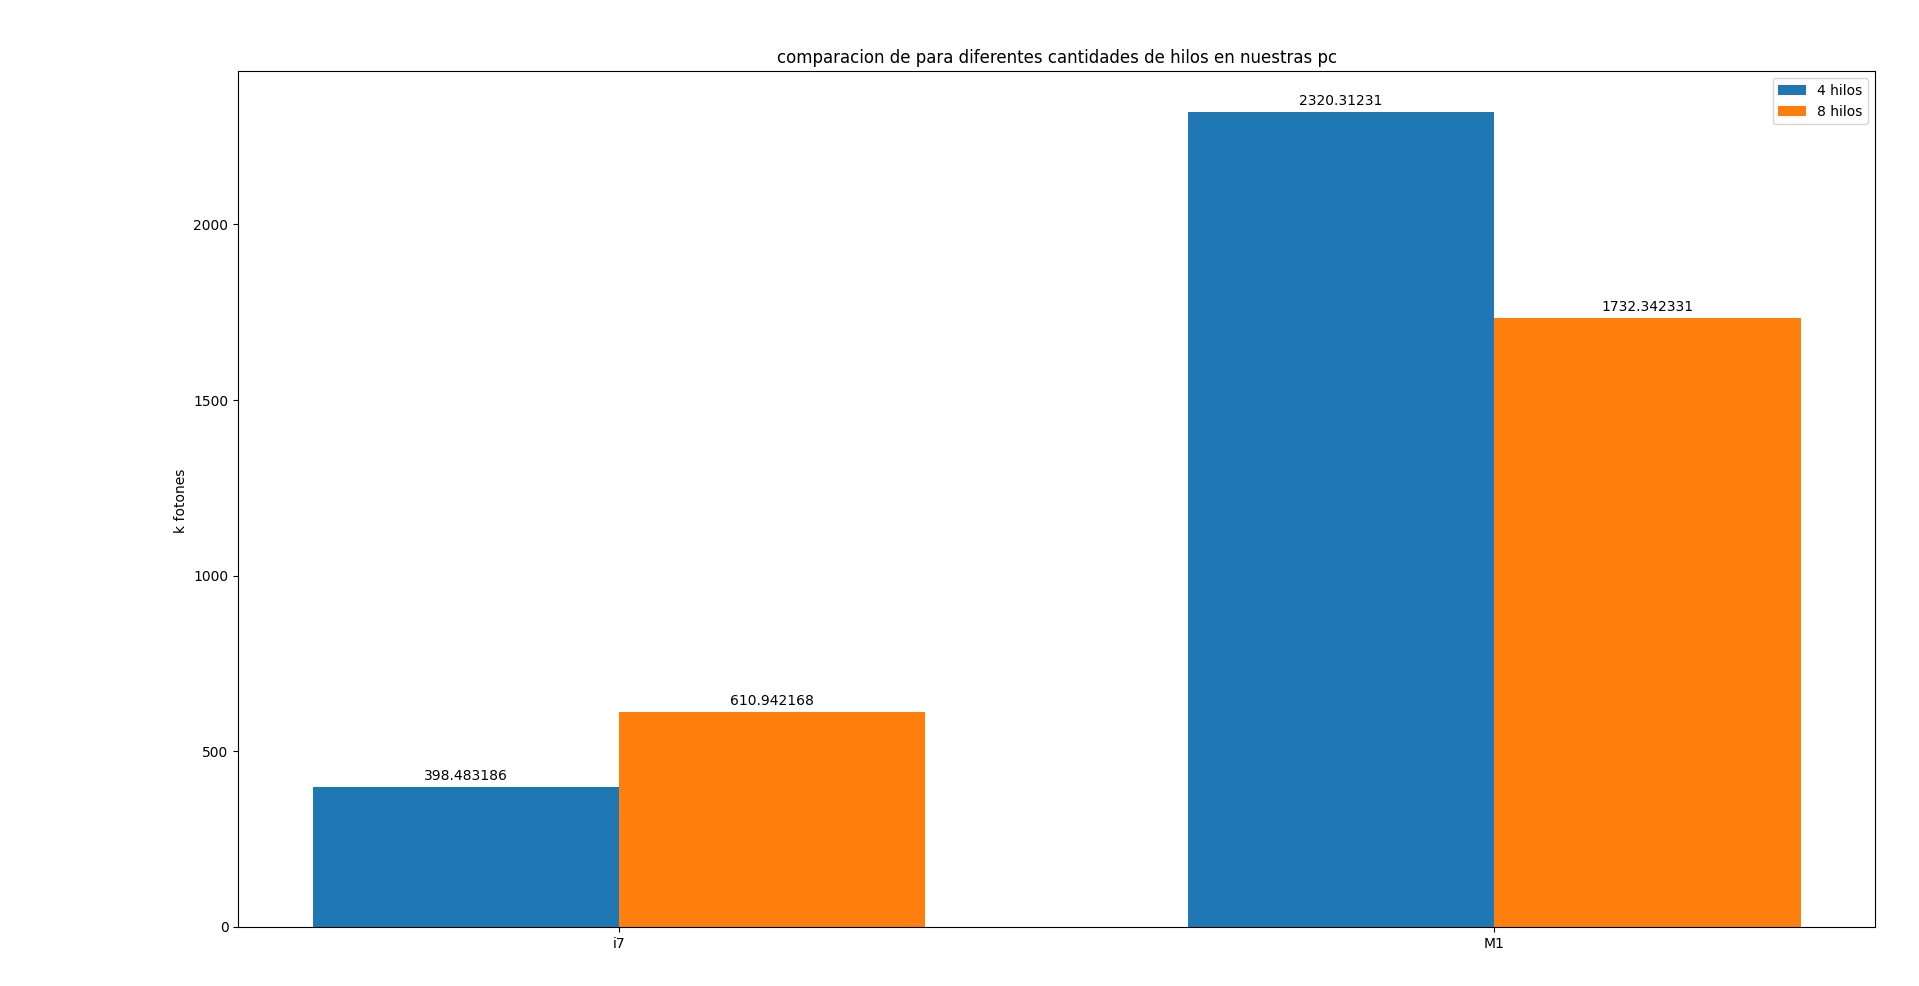
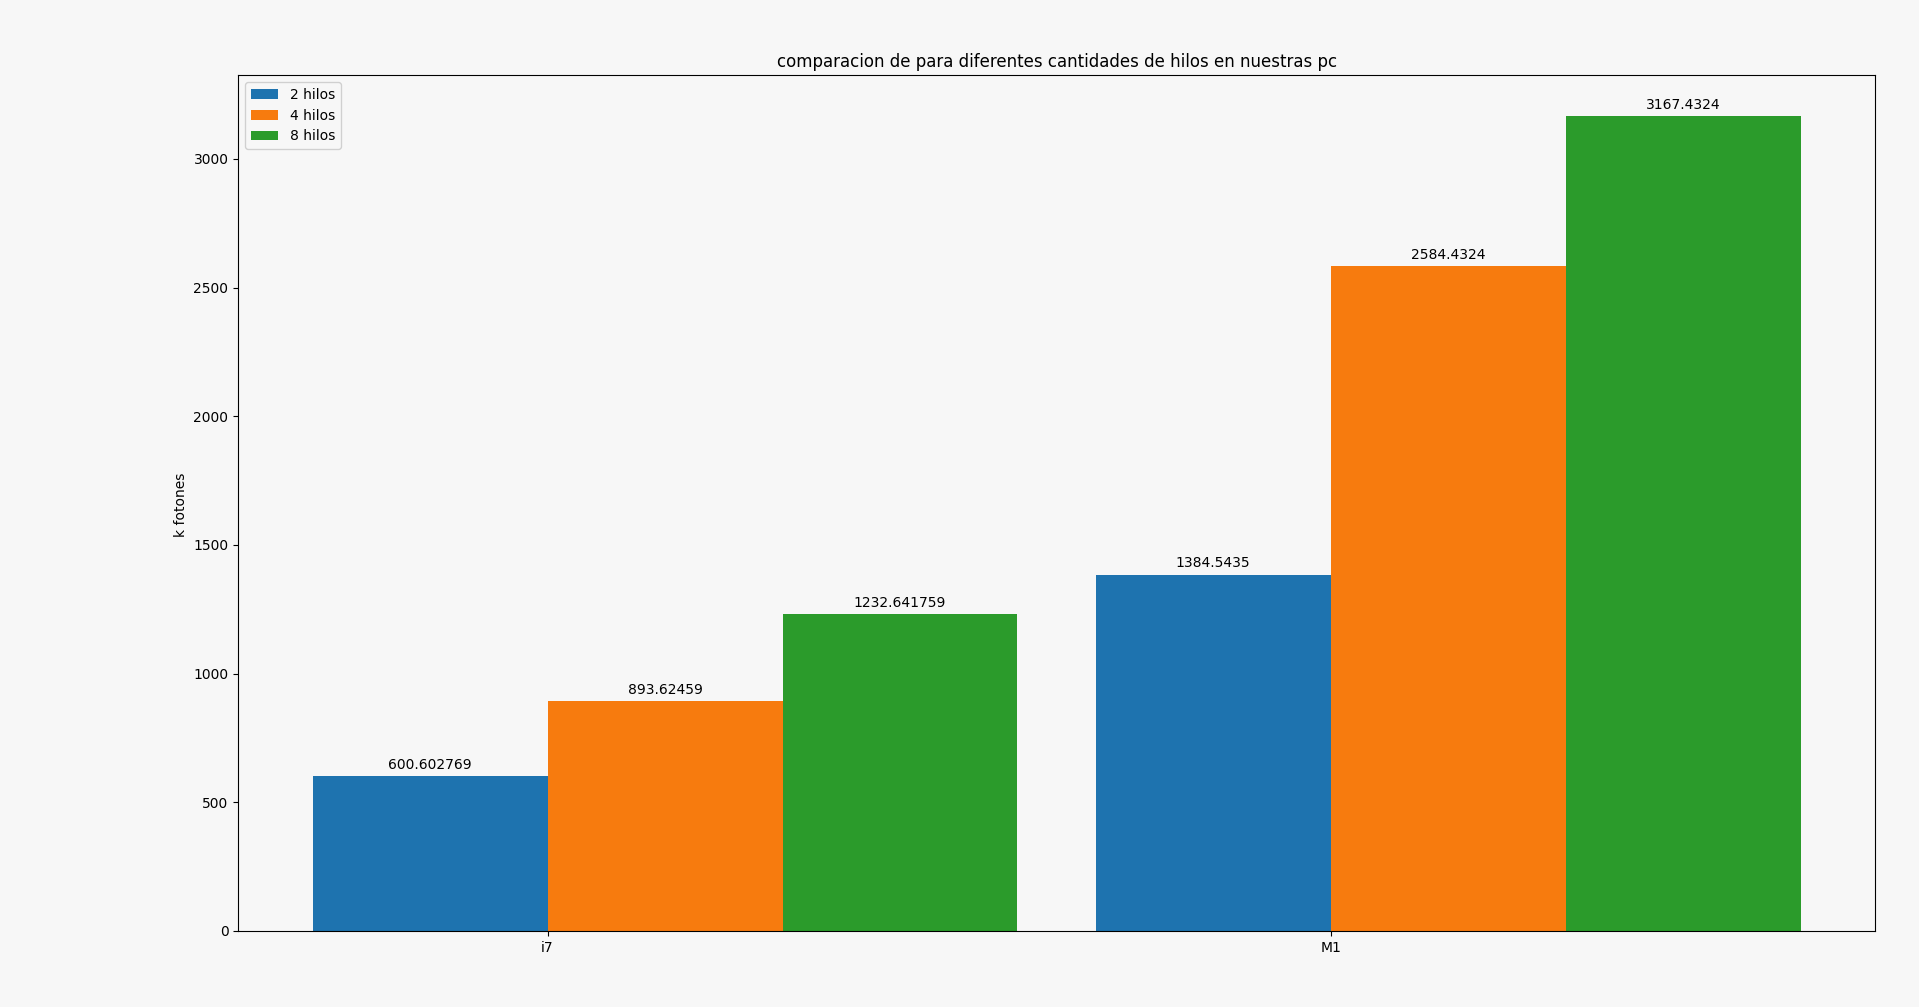
informe

diff --git a/tiny_pcg.c b/tiny_pcg.c
@@ -158,6 +158,8 @@ int main(void)
         free(partials[j].heat);
         free(partials[j].heat2);
     }
+    
+
     // printf("# %lf seconds\n", elapsed);
     //printf("# %lf K photons per second\n", 1e-3 * PHOTONS / elapsed);
     printf("%lf\n", 1e-3 * PHOTONS / elapsed);

diff --git a/Informe3/informe3.md b/Informe3/informe3.md
@@ -23,19 +23,87 @@ y luego con el comando
 
 elegiamos la cantidad de threads que queriamos lanzar.
 
+### Optimizaciones
+Para este Lab usando open mp, ademas de cambiar el generador de numeros aleatorios, optamos por no usar la funcion for reduction() ya que los resultados obtenidos, si bien eran mejores, no eran tan buenos como esperabamos. por esta razon decidimos hacer una version personalizada de la misma.
+
+Para evitar race conditions realizamos los siguintes cambios al codigo.
+Primero creamos el siguiente struct:
+
+    typedef struct PhotonHeat {
+        float *heat;
+        float *heat2;
+    }PhotonHeat;
+
+y le asignamos a cada hilo un PhotonHeat distinto 
+
+    #pragma omp parallel for schedule(dynamic)
+    for (unsigned int i = 0; i < PHOTONS ; ++i) {
+        photon(rngs[omp_get_thread_num()], partials[omp_get_thread_num()]);
+    }
+
+Para finalmente reconciliar cada PhotonHeat en uno con y asi evitar race conditions.
+
+
+    #pragma omp parallel for schedule(dynamic)
+    for (unsigned int i = 0; i < SHELLS ; i++){
+        for(int j = 0; j < num_threads; j++){
+            heat[i] += partials[j].heat[i];
+            heat2[i] += partials[j].heat2[i];
+        }
+    }
+Para la union tambien aprovechamos openmp y la realizamos en paralelo.
+
+Otras mejoras. 
+a cada thread le pasamos su propio generador con una semilla unica 
+
+ pcg32_srandom_r(&(rngs[i]), time(NULL) * (i + 1), (intptr_t)&(rngs[i]));
+
+donde i es el numero de thread en el que esta corriendo.
+
+y para medir el tiempo usamos la funcion 
+
+    omp_get_wtime();
+
+ya que vimos que era lo optimo en cuanto a paralelismo.
+
+
 ### Resultados 
+
+#### Roofline
+
+Resultados obtenidos con roofline.
+![alt text](gra1.png)
+
+
+![alt text](gra2.png)
+
+
+### Graficos
 Para este lab usamos la computadora zx81, una computadora con el Intel® Core™ i7-8550U CPU @ 1.80GHz × 8 y otra con un Apple M1 x 8
-Primero nos parecio interesante ver los resultados obtenidos comparando los mejores resultados de varias corridas para nuestras computadoras tanto para 4 hilos como para 8. obteniendo asi los siguientes resultados.
+Primero nos parecio interesante ver los resultados obtenidos comparando los mejores resultados de varias corridas para nuestras computadoras tanto para 2,4 y 8 hilos.
+Obteniendo asi los siguientes resultados.
 
 ![alt text](gr1.png)
 
 En este grafico es interesante notar que 
 - El aumento de velocidad no es lineal
 - El aumento de velocidad parea el procesador i7 es realmente grandioso respecto a los resultados obtenidos en el lab 2, lo que prueba que fuimos realmente perjudicados por el generador rand()
-- En el caso del Apple M1 se pierde velocidad con 8 hilos (creemos que se da por el uso de los cores de baja potencia lo que produce un efecto contraproducente)
 
 Ahora nos parecio interesante comparar los resultados del procesador i7 en el lab 1,2 y 3.
 
 ![alt text](gr2.png)
 
 Aqui vemos la mejora respecto a labs anteriores, esto se da por el uso de Open mp y el cambio de generador de numeros aleatorios.
+
+
+![alt text](gra3.png)
+En este grafico vemos como aumenta la cantidad de fotones por segundo respecto a la cantidad de threads utilizados, obteniendo como pico de mejor resultado 4782.568k fotones por segundo utilizando 23 threads.
+
+
+
+### Posibles mejoras
+como posible mejora, es usar open mp en nuestro codigo vectorizado del lab 2 pero adaptando la vectorizacion con un buen generador de numeros aleatorios.
+
+
+### Conclusiones
+Como conclusion podemos decir que obtuvimos un resultado increiblemente alto con el agreagado de unas pocas lineas usando open mp (sin contar que no usamos reduction) lo que nos llevo a procesar mas de 4000 fotones por segundo. cuando nuestro record de fotones por segundo fue de poco mas de 200 en zx81
